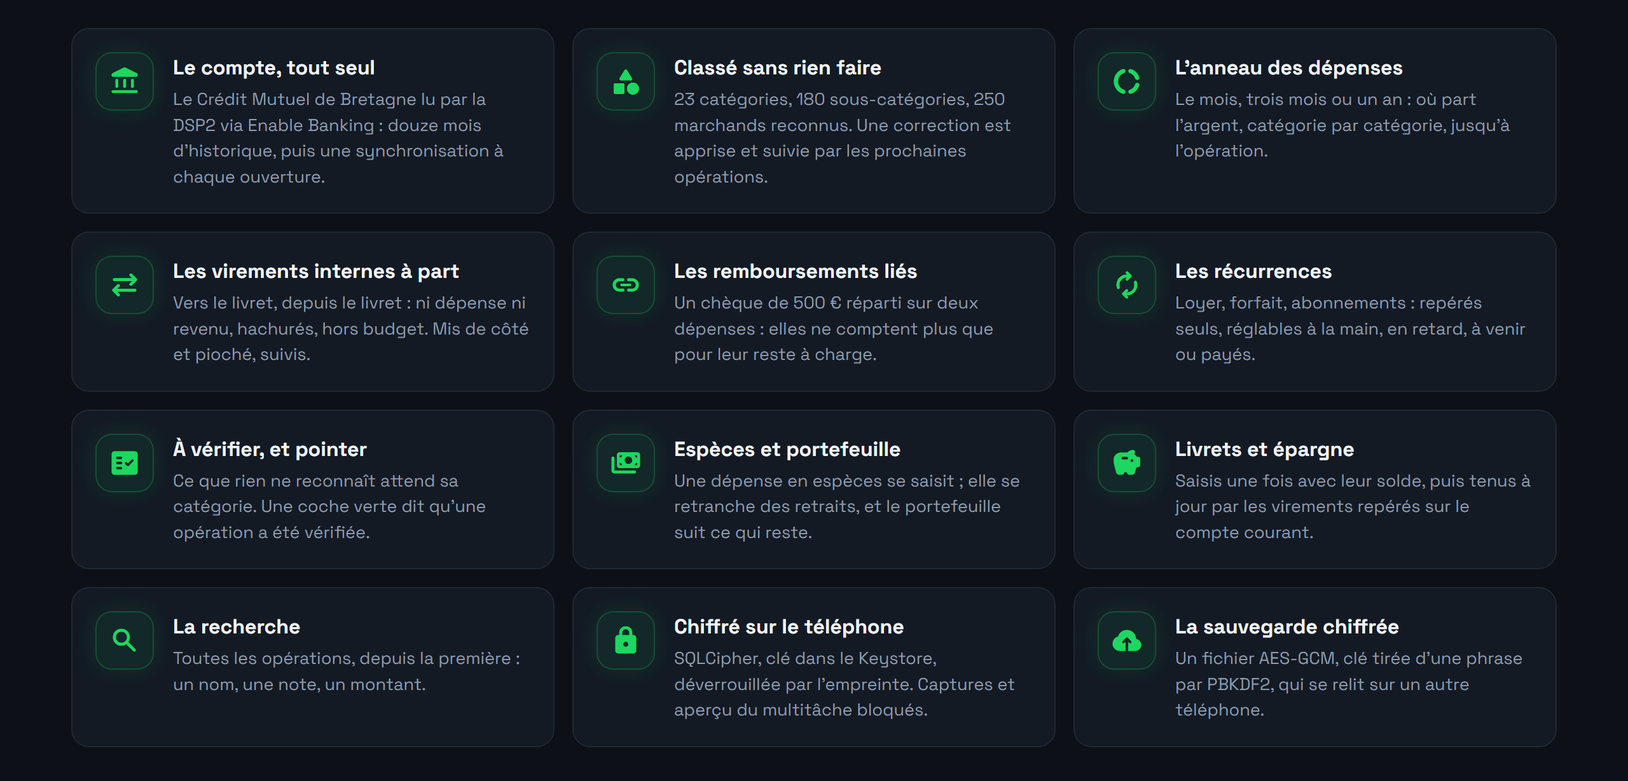
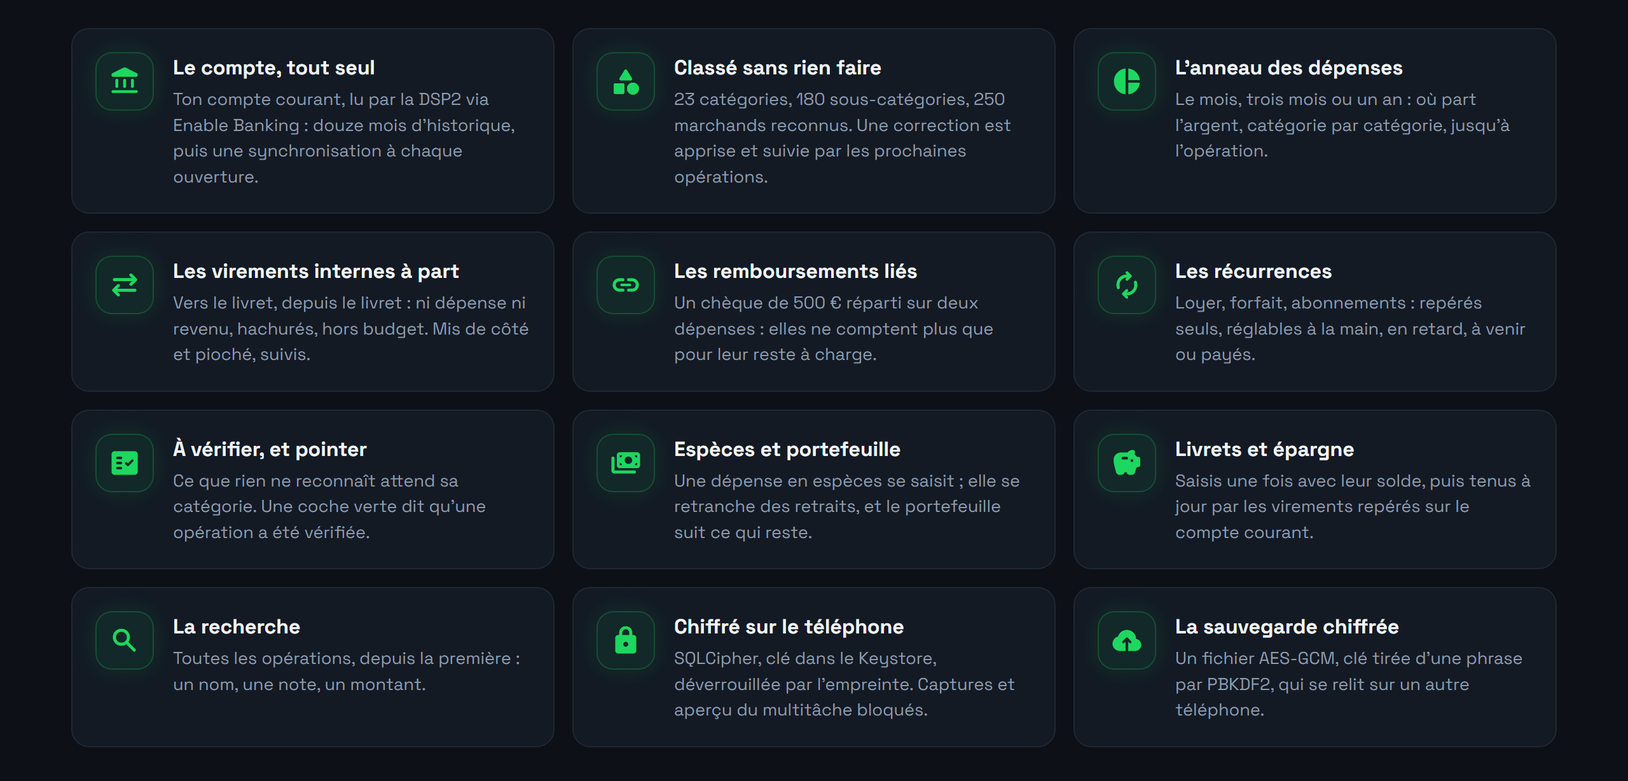
Relecture des schémas : chaque détail à sa place
Relier la banque devient un vrai diagramme d'échanges, quatre acteurs et
neuf messages qui filent de l'un à l'autre. Les billes passent sous les
cartes et gardent la couleur de leur étape (la première du chiffrement
était rose au lieu de verte). La sixième carte de la banque ne
s'allumait jamais : une animation finissait avant la fin du cycle. À
classer n'est plus allumé quand il n'est pas atteint. Les montants, les
barres et les conclusions des mouvements arrivent dans l'ordre. Plus
de Crédit Mutuel là où il ne sert à rien, et des icônes plus lisibles.

Claude-Session: https://claude.ai/code/session_01NXLhh24fksVRhN8kDArzP8

Changed region(s): [[0.0938, 0.1238, 0.3125, 0.2476], [0.6875, 0.0928, 0.7188, 0.1238]]

diff --git a/docs/tools/anime.js b/docs/tools/anime.js
@@ -85,6 +85,7 @@ function visible(cycle, de, a, douceur = 0.02) {
   if (de > douceur) e.push([de - douceur, 0]);
   e.push([de, 1], [Math.min(a, 1), 1]);
   if (a + douceur < 1) e.push([a + douceur, 0], [1, 0]);
+  else if (a < 1) e.push([1, 1]);
   return fondu('opacity', cycle, e);
 }
 
@@ -138,45 +139,88 @@ const P = {
 
 // ------------------------------------------------------------------------
 // 1. Relier la banque : l'aller-retour qui ouvre l'accès au compte.
+//
+// Un diagramme d'échanges : quatre acteurs en colonnes, et chaque message
+// file de l'un à l'autre, sa flèche se trace et son libellé reste. La
+// colonne qui reçoit s'allume.
 {
-  const C = 14;
-  const L = 330, H = 78;
-  const xs = [60, 475, 890], hauts = 96, bas = 290;
-  const etapes = [
-    [xs[0], hauts, 'Smart Budget', 'JWT signé en RS256', P.telephone, VERT],
-    [xs[1], hauts, 'Enable Banking', 'POST /auth, état au hasard', P.nuage, BLEU],
-    [xs[2], hauts, 'Crédit Mutuel', 'tu valides par Safetrans', P.banque, OR],
-    [xs[2], bas, 'GitHub Pages', 'cybertrist.github.io/SmartBudget', P.page, ROSE],
-    [xs[1], bas, 'smartbudget://banque', 'état vérifié, POST /sessions', P.lien, NEON],
-    [xs[0], bas, 'Session de 180 jours', '12 mois importés, puis à l’ouverture', P.horloge, VERT],
+  const C = 18;
+  const acteurs = [
+    [160, 'Smart Budget', 'le téléphone', P.telephone, VERT],
+    [480, 'Enable Banking', 'l’accès DSP2', P.nuage, BLEU],
+    [800, 'Ta banque', 'tu valides', P.banque, OR],
+    [1120, 'GitHub Pages', 'la page de retour', P.page, ROSE],
   ];
-  // Le chemin passe par le centre de chaque carte.
-  const cx = (i) => etapes[i][0] + L / 2, cy = (i) => etapes[i][1] + H / 2;
-  const chemin = `M${cx(0)} ${cy(0)} H${cx(1)} H${cx(2)} V${cy(3)} H${cx(4)} H${cx(5)} V${cy(0)}`;
-  // Longueurs relatives : 415, 415, 194, 415, 415, 194 sur 2048.
-  const seg = [0, 415, 830, 1024, 1439, 1854, 2048].map((v) => (v / 2048).toFixed(4));
-  const pts = [], tps = [];
-  for (let i = 0; i < 6; i++) {
-    const a = i / 6, b = a + 0.1;
-    pts.push(seg[i], seg[i]); tps.push(a.toFixed(3), b.toFixed(3));
-  }
-  pts.push(seg[6]); tps.push('1');
+  // [de, vers, libellé] ; de === vers : une étape sur place.
+  const messages = [
+    [0, 1, 'POST /auth : un JWT signé en RS256, et un état tiré au hasard'],
+    [1, 2, 'ouvre la page de la banque'],
+    [2, 2, 'tu valides par Safetrans'],
+    [2, 3, 'revient avec ?code=…&state=…'],
+    [3, 0, 'rend la main : smartbudget://banque'],
+    [0, 0, 'l’état est le même qu’au départ ✓'],
+    [0, 1, 'POST /sessions : échange le code'],
+    [1, 0, 'une session de 180 jours, et les comptes'],
+    [0, 0, '12 mois importés, puis à chaque ouverture'],
+  ];
+  const Y = 196, PAS = 44, trajet = 0.05;
+  const debut = (i) => 0.03 + i * 0.098;
+  const fin = 0.95;
+  const hL = 64, hY = 86;
   let corps = '';
   corps += t(60, 52, 'RELIER LA BANQUE', { taille: 13, couleur: VERT, police: MONO, poids: 700, extra: 'letter-spacing="3"' });
   corps += t(270, 52, 'Un aller-retour, une fois tous les 180 jours. La clé privée ne quitte jamais le téléphone.', { taille: 14 });
-  corps += fil(`M${cx(0) + L / 2} ${cy(0)} H${xs[1]} M${cx(1) + L / 2} ${cy(1)} H${xs[2]} M${cx(2)} ${hauts + H} V${bas} M${xs[2]} ${cy(3)} H${cx(4) + L / 2} M${xs[1]} ${cy(4)} H${cx(5) + L / 2}`);
-  etapes.forEach((e, i) => {
-    corps += carte(e[0], e[1], L, H, e[2], e[3], e[5], { icone: e[4], allume: [i / 6, i / 6 + 0.16], cycle: C });
+  // Les lignes de vie, puis les en-têtes.
+  const basVie = Y + (messages.length - 1) * PAS + 22;
+  for (const [x, , , , c] of acteurs) {
+    corps += `<line x1="${x}" y1="${hY + hL}" x2="${x}" y2="${basVie}" stroke="${c}" stroke-opacity="0.28" stroke-width="2" stroke-dasharray="3 6"/>`;
+  }
+  acteurs.forEach(([x, titre, sous, icone, c], k) => {
+    const l = 236, x0 = x - l / 2;
+    corps += `<rect x="${x0}" y="${hY}" width="${l}" height="${hL}" rx="13" fill="${CARTE}" stroke="${BORD}"/>
+      <rect x="${x0}" y="${hY + 12}" width="3" height="${hL - 24}" rx="1.5" fill="${c}"/>
+      <g transform="translate(${x0 + 18},${hY + hL / 2 - 14})">${icone(c)}</g>
+      ${t(x0 + 58, hY + 29, titre, { taille: 14.5, couleur: TITRE, police: MONO, poids: 700 })}
+      ${t(x0 + 58, hY + 48, sous, { taille: 12.5 })}`;
+    // Elle s'allume à chaque message qu'elle reçoit.
+    messages.forEach(([, vers], i) => {
+      if (vers !== k) return;
+      const a = debut(i) + trajet;
+      corps += `<rect x="${x0}" y="${hY}" width="${l}" height="${hL}" rx="13" fill="none" stroke="${c}" stroke-width="1.5" filter="url(#halo)" opacity="0">${visible(C, a, a + 0.07)}</rect>`;
+    });
   });
-  // Les numéros d'étape.
-  etapes.forEach((e, i) => {
-    corps += `<circle cx="${e[0] + L - 22}" cy="${e[1] + 20}" r="11" fill="${FOND}" stroke="${e[5]}" stroke-opacity="0.5"/>` +
-      t(e[0] + L - 22, e[1] + 24.5, String(i + 1), { taille: 12, couleur: e[5], police: MONO, poids: 700, ancre: 'middle' });
+  // Les messages.
+  messages.forEach(([de, vers, libelle], i) => {
+    const y = Y + i * PAS, s = debut(i), c = acteurs[de][4];
+    const xa = acteurs[de][0], xb = acteurs[vers][0];
+    if (de === vers) {
+      // Une pastille accrochée à sa colonne, qui s'ouvre vers la droite.
+      const l = libelle.length * 6.9 + 36, x0 = xa - 14;
+      corps += `<g opacity="0">${visible(C, s, fin)}
+        <rect x="${x0}" y="${y - 14}" width="${l}" height="28" rx="14" fill="${FOND}"/>
+        <rect x="${x0}" y="${y - 14}" width="${l}" height="28" rx="14" fill="${c}" fill-opacity="0.14" stroke="${c}" stroke-opacity="0.8"/>
+        <circle cx="${xa}" cy="${y}" r="4" fill="${c}"/>
+        ${t(x0 + 26, y + 4.5, libelle, { taille: 12.5, couleur: TITRE })}
+      </g>`;
+      return;
+    }
+    const sens = xb > xa ? 1 : -1;
+    const x1 = xa + sens * 8, x2 = xb - sens * 10, long = Math.abs(x2 - x1);
+    corps += `<g opacity="0">${visible(C, s, fin)}
+      <line x1="${x1}" y1="${y}" x2="${x2}" y2="${y}" stroke="${c}" stroke-width="2" stroke-dasharray="${long}" stroke-dashoffset="${long}">
+        ${fondu('stroke-dashoffset', C, [[0, long], [s, long], [s + trajet, 0], [1, 0]])}</line>
+      <path d="M${x2 - sens * 7} ${y - 6} L${x2 + sens * 1} ${y} L${x2 - sens * 7} ${y + 6}" fill="none" stroke="${c}" stroke-width="2" stroke-linecap="round" stroke-linejoin="round" opacity="0">${visible(C, s + trajet, fin)}</path>
+      <circle cx="${xa}" cy="${y}" r="4" fill="${c}"/>
+      ${t((xa + xb) / 2, y - 10, libelle, { taille: 12.5, couleur: TITRE, ancre: 'middle' })}
+    </g>`;
+    // Le paquet qui file le long de la flèche.
+    corps += `<g filter="url(#halo)" opacity="0">${fondu('opacity', C, [[0, 0], [s, 0], [s + 0.004, 1], [s + trajet, 1], [s + trajet + 0.006, 0], [1, 0]])}
+      <circle cy="${y}" r="6" fill="${c}"><animate attributeName="cx" dur="${C}s" repeatCount="indefinite" keyTimes="0;${s};${s + trajet};1" values="${x1};${x1};${x2};${x2}" calcMode="spline" keySplines="0 0 1 1;0.45 0 0.25 1;0 0 1 1"/></circle>
+    </g>`;
   });
-  corps += bille(chemin, C, pts.join(';'), tps.join(';'));
-  corps += t(640, 418, 'Le jeton d’état tiré au hasard empêche un lien fabriqué ailleurs de relier un autre compte.', { taille: 13, couleur: DISCRET, ancre: 'middle' });
-  svg('banque.svg', 1280, 440, corps,
-    'Relier la banque, en six étapes qui s’allument tour à tour : Smart Budget signe un JWT en RS256 ; Enable Banking ouvre une demande avec un état tiré au hasard ; tu valides au Crédit Mutuel de Bretagne par Safetrans ; la banque revient sur GitHub Pages ; la page rend la main à l’application par smartbudget://banque, qui vérifie l’état et ouvre la session ; la session dure 180 jours, douze mois sont importés, puis une synchronisation à chaque ouverture.');
+  corps += t(640, 604, 'Le jeton d’état, tiré au hasard au départ et vérifié au retour, empêche un lien fabriqué ailleurs de relier un autre compte.', { taille: 13, couleur: DISCRET, ancre: 'middle' });
+  svg('banque.svg', 1280, 630, corps,
+    'Relier la banque, un échange entre quatre acteurs : Smart Budget, Enable Banking, ta banque et GitHub Pages. Smart Budget envoie à Enable Banking un JWT signé en RS256 et un état tiré au hasard ; Enable Banking ouvre la page de la banque ; tu valides par Safetrans ; la banque revient sur GitHub Pages avec un code et l’état ; la page rend la main à l’application par smartbudget://banque ; l’application vérifie que l’état est le même qu’au départ, échange le code contre une session de 180 jours et les comptes, puis importe douze mois et se synchronise à chaque ouverture.');
 }
 
 // ------------------------------------------------------------------------
@@ -218,7 +262,18 @@ const P = {
   const l = 268, y = 206, h = 86;
   qs.forEach(([titre, sous, rep, instant], i) => {
     const xq = 60 + i * (l + 22);
-    const couleur = rep === 'oui' ? VERT : rep === 'non' ? ROUGE : DISCRET;
+    const couleur = rep === 'oui' ? VERT : ROUGE;
+    // La dernière question n'est pas posée : la carte s'éteint.
+    if (rep === 'saut') {
+      corps += `<g>
+      <rect x="${xq}" y="${y}" width="${l}" height="${h}" rx="13" fill="${CARTE}" stroke="${BORD}"/>
+      ${t(xq + 20, y + 36, titre, { taille: 15, couleur: TITRE, police: MONO, poids: 700 })}
+      ${t(xq + 20, y + 60, sous, { taille: 12.5 })}
+      <rect x="${xq}" y="${y}" width="${l}" height="${h}" rx="13" fill="${FOND}" opacity="0">${fondu('opacity', C, [[0, 0], [instant, 0], [instant + 0.04, 0.6], [0.92, 0.6], [1, 0]])}</rect>
+      <g opacity="0">${visible(C, instant + 0.03, 0.92)}${t(xq + l - 20, y + 35, 'pas atteint', { taille: 12, couleur: DISCRET, police: MONO, ancre: 'end' })}</g>
+    </g>`;
+      return;
+    }
     corps += `<g>
       <rect x="${xq}" y="${y}" width="${l}" height="${h}" rx="13" fill="${CARTE}" stroke="${BORD}"/>
       <rect x="${xq}" y="${y}" width="${l}" height="${h}" rx="13" fill="none" stroke="${couleur}" stroke-width="1.5" opacity="0" ${rep === 'oui' ? 'filter="url(#halo)"' : ''}>${visible(C, instant, rep === 'oui' ? 0.92 : instant + 0.1)}</rect>
@@ -226,7 +281,7 @@ const P = {
       ${t(xq + 20, y + 60, sous, { taille: 12.5 })}
       <g opacity="0">${visible(C, instant + 0.03, 0.92)}
         <circle cx="${xq + l - 30}" cy="${y + 30}" r="13" fill="${couleur}" fill-opacity="0.15" stroke="${couleur}"/>
-        ${t(xq + l - 30, y + 35, rep === 'oui' ? '✓' : rep === 'non' ? '✕' : '·', { taille: 15, couleur, ancre: 'middle', poids: 700 })}
+        ${t(xq + l - 30, y + 35, rep === 'oui' ? '✓' : '✕', { taille: 15, couleur, ancre: 'middle', poids: 700 })}
       </g>
     </g>`;
     if (i < 3) corps += `<path d="M${xq + l + 4} ${y + h / 2} h14" stroke="${FIL}" stroke-width="2" marker-end=""/><path d="M${xq + l + 14} ${y + h / 2 - 5} l5 5 l-5 5" fill="none" stroke="${FIL}" stroke-width="2"/>`;
@@ -263,10 +318,10 @@ const P = {
   // a. Virement interne.
   const a = 60;
   corps += col(a, 'Un virement vers le livret', INTERNE);
-  corps += t(a + 22, 158, 'VIR VERS LIVRET CMB', { taille: 12.5, couleur: TITRE, police: MONO });
-  corps += t(a + 22, 176, 'DE CARTE BANCAIRE', { taille: 12.5, couleur: TITRE, police: MONO });
+  corps += t(a + 22, 158, 'VIR VERS LIVRET A', { taille: 12.5, couleur: TITRE, police: MONO });
+  corps += t(a + 22, 176, 'DE COMPTE COURANT', { taille: 12.5, couleur: TITRE, police: MONO });
   corps += `<rect x="${a + 22}" y="198" width="120" height="58" rx="11" fill="#0F151D" stroke="${BORD}"/>${t(a + 82, 222, 'Compte', { taille: 12, ancre: 'middle' })}${t(a + 82, 240, 'courant', { taille: 12, ancre: 'middle' })}`;
-  corps += `<rect x="${a + 228}" y="198" width="120" height="58" rx="11" fill="#0F151D" stroke="${BLEU}" stroke-opacity="0.5"/>${t(a + 288, 222, 'Livret', { taille: 12, couleur: BLEU, ancre: 'middle' })}${t(a + 288, 240, 'CMB', { taille: 12, couleur: BLEU, ancre: 'middle' })}`;
+  corps += `<rect x="${a + 228}" y="198" width="120" height="58" rx="11" fill="#0F151D" stroke="${BLEU}" stroke-opacity="0.5"/>${t(a + 288, 231, 'Livret A', { taille: 12.5, couleur: BLEU, ancre: 'middle' })}`;
   corps += fil(`M${a + 144} 227 H${a + 226}`);
   corps += `<g>${bille(`M${a + 144} 227 H${a + 226}`, 3, '0;1', '0;1', BLEU, 5)}</g>`;
   corps += `<rect x="${a + 22}" y="276" width="326" height="36" rx="9" fill="url(#hachures)" stroke="#2A3542"/>${t(a + 185, 299, 'hors budget : ni dépense, ni revenu', { taille: 12.5, couleur: INTERNE, ancre: 'middle' })}`;
@@ -285,12 +340,14 @@ const P = {
       <text x="${b + 348}" y="${y}" font-family="${MONO}" font-size="13.5" font-weight="700" fill="${TITRE}" text-anchor="end">-${total} €${paliers('opacity', C, [[0, 1], [debut + 0.12, 0], [0.95, 1]])}</text>
       <text x="${b + 348}" y="${y}" font-family="${MONO}" font-size="13.5" font-weight="700" fill="${ROSE}" text-anchor="end" opacity="0">reste ${reste} €${paliers('opacity', C, [[0, 0], [debut + 0.12, 1], [0.95, 0]])}</text>
       <rect x="${b + 22}" y="${y + 10}" width="${L}" height="9" rx="4.5" fill="#1D2530"/>
-      <rect x="${b + 22}" y="${y + 10}" width="${w0}" height="9" rx="4.5" fill="${ROSE}">${fondu('width', C, [[0, w0], [debut, w0], [debut + 0.12, w1], [0.92, w1], [1, w0]])}</rect>
-      ${t(b + 22, y + 38, `${part} € du chèque`, { taille: 11.5, couleur: DISCRET })}`;
+      <rect x="${b + 22}" y="${y + 10}" width="${w0}" height="9" rx="4.5" fill="${ROSE}">${fondu('width', C, [[0, w0], [debut, w0], [debut + 0.12, w1], [0.95, w1], [0.99, w0], [1, w0]])}</rect>
+      <g opacity="0">${visible(C, debut + 0.02, 0.95)}${t(b + 22, y + 38, `${part} € du chèque`, { taille: 11.5, couleur: ROSE })}</g>`;
   };
   corps += barre(222, 'Billet de train', 380, 80, 300, 0.12);
   corps += barre(286, 'Restaurant', 260, 60, 200, 0.3);
-  corps += fil(`M${b + 185} 190 V212`);
+  // Le chèque se partage : un fil rose vers chaque dépense qu'il rembourse.
+  const branche = (y, de) => `<path d="M${b + 22} 168 H${b + 11} V${y} H${b + 20}" fill="none" stroke="${ROSE}" stroke-opacity="0.6" stroke-width="1.5" stroke-linejoin="round" opacity="0">${visible(C, de, 0.95)}</path>`;
+  corps += branche(236, 0.12) + branche(300, 0.3);
   corps += t(b + 22, 370, 'Revenu compté', { taille: 13 }) + `<g>${t(b + 348, 370, '0 €', { taille: 13, couleur: TITRE, police: MONO, ancre: 'end' })}</g>`;
   corps += t(b + 22, 396, 'Les dépenses ne pèsent que leur reste.', { taille: 12, couleur: DISCRET });
 
@@ -305,11 +362,11 @@ const P = {
   corps += `<rect x="${c + 22}" y="306" width="326" height="36" rx="9" fill="${OR}" fill-opacity="0.08" stroke="${OR}" stroke-opacity="0.35"/>`;
   corps += `<g>${t(c + 185, 329, 'Portefeuille : 50 €', { taille: 13, couleur: OR, police: MONO, poids: 700, ancre: 'middle' })}${paliers('opacity', C, [[0, 1], [0.32, 0], [0.95, 1]])}</g>`;
   corps += `<g opacity="0">${t(c + 185, 329, 'Portefeuille : 38 €', { taille: 13, couleur: OR, police: MONO, poids: 700, ancre: 'middle' })}${paliers('opacity', C, [[0, 0], [0.32, 1], [0.95, 0]])}</g>`;
-  corps += t(c + 22, 370, 'Sorties du mois', { taille: 13 }) + t(c + 348, 370, '50 €, pas 62', { taille: 13, couleur: TITRE, police: MONO, ancre: 'end' });
+  corps += t(c + 22, 370, 'Sorties du mois', { taille: 13 }) + `<g>${t(c + 348, 370, '50 €', { taille: 13, couleur: TITRE, police: MONO, ancre: 'end' })}${paliers('opacity', C, [[0, 1], [0.5, 0], [0.95, 1]])}</g><g opacity="0">${t(c + 348, 370, '50 €, pas 62', { taille: 13, couleur: TITRE, police: MONO, ancre: 'end' })}${paliers('opacity', C, [[0, 0], [0.5, 1], [0.95, 0]])}</g>`;
   corps += t(c + 22, 396, 'Le même billet ne compte qu’une fois.', { taille: 12, couleur: DISCRET });
 
   svg('mouvements.svg', 1280, 440, corps,
-    'Trois pièges d’un relevé, et comment l’application les défait. Un virement vers le livret CMB, lu dans VIR VERS LIVRET CMB DE CARTE BANCAIRE : l’argent passe du compte courant au livret, il est hors budget, compté 200 euros mis de côté, et le budget reste inchangé. Un chèque de 500 euros qui rembourse : 300 euros vont au billet de train de 380 euros, dont il reste 80, et 200 au restaurant de 260 euros, dont il reste 60 ; le chèque ne compte pas comme un revenu. Des espèces : un retrait de 50 euros, puis 12 euros au marché ; les retraits tombent à 38, les courses montent à 12, le portefeuille passe de 50 à 38 euros, et les sorties du mois restent 50 euros, pas 62.');
+    'Trois pièges d’un relevé, et comment l’application les défait. Un virement vers le livret A, lu dans VIR VERS LIVRET A DE COMPTE COURANT : l’argent passe du compte courant au livret, il est hors budget, compté 200 euros mis de côté, et le budget reste inchangé. Un chèque de 500 euros qui rembourse : 300 euros vont au billet de train de 380 euros, dont il reste 80, et 200 au restaurant de 260 euros, dont il reste 60 ; le chèque ne compte pas comme un revenu. Des espèces : un retrait de 50 euros, puis 12 euros au marché ; les retraits tombent à 38, les courses montent à 12, le portefeuille passe de 50 à 38 euros, et les sorties du mois restent 50 euros, pas 62.');
 }
 
 // ------------------------------------------------------------------------
@@ -320,6 +377,13 @@ const P = {
   corps += t(60, 52, 'LE CHIFFREMENT', { taille: 13, couleur: VERT, police: MONO, poids: 700, extra: 'letter-spacing="3"' });
   corps += t(240, 52, 'L’empreinte ne déverrouille pas un écran : elle charge la clé.', { taille: 14 });
   const L = 250, H = 76;
+  // Les billes passent sous les cartes : elles ne se voient que sur les fils.
+  // Verte de l'empreinte au Keystore, puis bleue et rose une fois la clé
+  // dérivée ; la dorée attend son tour, cachée dans la carte de la phrase.
+  corps += bille('M185 210 H485', C, '0;0;1;1', '0;0.03;0.18;1', VERT, 5);
+  corps += bille('M485 210 H610 C635 210 635 128 660 128 H1090', C, '0;0;1;1', '0;0.18;0.5;1', BLEU, 5);
+  corps += bille('M485 210 H610 C635 210 635 292 660 292 H1090', C, '0;0;1;1', '0;0.18;0.5;1', ROSE, 5);
+  corps += bille('M185 430 H940', C, '0;0;1;1', '0;0.5;0.8;1', OR, 5);
   corps += carte(60, 172, L, H, 'Empreinte', 'local_auth', VERT, { icone: P.empreinte, allume: [0, 0.2], cycle: C });
   corps += carte(360, 172, L, H, 'Keystore', 'clé maîtresse, 32 octets', NEON, { icone: P.cle, allume: [0.12, 0.35], cycle: C });
   corps += carte(660, 90, L, H, 'HKDF-SHA256', 'smartbudget/db/v1', BLEU, { icone: P.cadenas, allume: [0.3, 0.6], cycle: C });
@@ -328,15 +392,12 @@ const P = {
   corps += carte(960, 254, 260, H, 'AES-GCM', 'la clé d’Enable Banking', ROSE, { icone: P.cle, allume: [0.45, 0.8], cycle: C });
   const p1 = 'M310 210 H360', p2 = 'M610 210 C635 210 635 128 660 128 M910 128 H960', p3 = 'M610 210 C635 210 635 292 660 292 M910 292 H960';
   corps += fil(p1) + fil(p2) + fil(p3);
-  corps += bille('M310 210 H360 H610 C635 210 635 128 660 128 H910 H960', C, '0;0;1;1', '0;0.1;0.55;1', BLEU, 5);
-  corps += bille('M310 210 H360 H610 C635 210 635 292 660 292 H910 H960', C, '0;0;1;1', '0;0.1;0.55;1', ROSE, 5);
   // La sauvegarde, qui ne dépend pas du téléphone.
   corps += `<rect x="60" y="364" width="1160" height="1" fill="${BORD}"/>`;
   corps += carte(60, 392, L, H, 'Ta phrase', 'choisie à l’export', OR, { icone: P.phrase, allume: [0.5, 0.75], cycle: C });
   corps += carte(360, 392, L, H, 'PBKDF2', '210 000 tours, sel', OR, { icone: P.cadenas, allume: [0.6, 0.85], cycle: C });
   corps += carte(660, 392, 560, H, 'smartbudget-2026-09-24.sbx', 'AES-GCM : SBEX1 · sel 16 · nonce 12 · chiffré · MAC 16, relisible ailleurs', OR, { icone: P.fichier, allume: [0.7, 0.95], cycle: C });
   corps += fil('M310 430 H360 M610 430 H660');
-  corps += bille('M310 430 H660', C, '0;0;1;1', '0;0.5;0.8;1', OR, 5);
   corps += t(640, 508, 'Sans l’empreinte, la clé n’est pas en mémoire : contourner l’écran d’ouverture ne donnerait accès à rien.', { taille: 13, couleur: DISCRET, ancre: 'middle' });
   svg('chiffrement.svg', 1280, 530, corps,
     'Le chiffrement. L’empreinte charge la clé maîtresse de 32 octets depuis le Keystore Android. HKDF-SHA256 en dérive deux clés : l’une ouvre la base SQLCipher, l’autre chiffre en AES-GCM la clé privée d’Enable Banking. À part, la sauvegarde : une phrase choisie à l’export passe par PBKDF2 en 210 000 tours, et chiffre en AES-GCM un fichier .sbx relisible sur un autre téléphone. Sans l’empreinte, la clé n’est pas en mémoire, et contourner l’écran d’ouverture ne donne accès à rien.');

diff --git a/README.md b/README.md
@@ -12,7 +12,7 @@ Elle est née d'une envie simple : arrêter de dépenser sans regarder, et de pi
 
 <img src="docs/sections/s01.png" alt="01 Fonctionnalités" width="100%">
 
-<img src="docs/schemas/fonctionnalites.png" alt="Douze fonctionnalités. Le compte, tout seul : le Crédit Mutuel de Bretagne lu par la DSP2 via Enable Banking, douze mois d'historique puis une synchronisation à chaque ouverture. Classé sans rien faire : 23 catégories, 180 sous-catégories, 250 marchands reconnus, et une correction apprise. L'anneau des dépenses, sur un mois, trois mois ou un an. Les virements internes à part, hors budget. Les remboursements liés à leurs dépenses. Les récurrences repérées seules. À vérifier et pointer. Espèces et portefeuille. Livrets et épargne tenus par les virements. La recherche dans toutes les opérations. Chiffré sur le téléphone. La sauvegarde chiffrée." width="100%">
+<img src="docs/schemas/fonctionnalites.png" alt="Douze fonctionnalités. Le compte, tout seul : le compte courant lu par la DSP2 via Enable Banking, douze mois d'historique puis une synchronisation à chaque ouverture. Classé sans rien faire : 23 catégories, 180 sous-catégories, 250 marchands reconnus, et une correction apprise. L'anneau des dépenses, sur un mois, trois mois ou un an. Les virements internes à part, hors budget. Les remboursements liés à leurs dépenses. Les récurrences repérées seules. À vérifier et pointer. Espèces et portefeuille. Livrets et épargne tenus par les virements. La recherche dans toutes les opérations. Chiffré sur le téléphone. La sauvegarde chiffrée." width="100%">
 
 <img src="docs/sections/s02.png" alt="02 Les écrans" width="100%">
 
@@ -52,7 +52,7 @@ flutter build apk --release --split-per-abi --dart-define=ESSAIS=true
 
 <img src="docs/sections/s04.png" alt="04 Relier la banque" width="100%">
 
-<img src="docs/schemas/banque.svg" alt="Relier la banque, en six étapes : Smart Budget signe un JWT en RS256 ; Enable Banking ouvre une demande avec un état tiré au hasard ; tu valides au Crédit Mutuel de Bretagne par Safetrans ; la banque revient sur GitHub Pages ; la page rend la main à l'application par smartbudget://banque, qui vérifie l'état et ouvre la session ; la session dure 180 jours, douze mois sont importés, puis une synchronisation à chaque ouverture." width="100%">
+<img src="docs/schemas/banque.svg" alt="Relier la banque, un échange entre quatre acteurs : Smart Budget, Enable Banking, ta banque et GitHub Pages. Smart Budget envoie un JWT signé en RS256 et un état tiré au hasard ; Enable Banking ouvre la page de la banque ; tu valides par Safetrans ; la banque revient sur GitHub Pages avec un code et l'état ; la page rend la main par smartbudget://banque ; l'application vérifie l'état, échange le code contre une session de 180 jours et les comptes, importe douze mois, puis se synchronise à chaque ouverture." width="100%">
 
 La banque ne parle pas aux particuliers : il faut un agrégateur agréé DSP2. [Enable Banking](https://enablebanking.com) en propose un, gratuit en mode restreint, c'est-à-dire limité aux comptes qu'on a soi-même reliés sur son portail. Bridge, l'API de Bankin, est réservé aux entreprises, et GoCardless a fermé ses inscriptions.
 
@@ -73,7 +73,7 @@ Ce que rien ne reconnaît tombe dans « À classer » et attend dans **À vérif
 
 <img src="docs/sections/s06.png" alt="06 Virements, remboursements, espèces" width="100%">
 
-<img src="docs/schemas/mouvements.svg" alt="Trois pièges d'un relevé. Un virement vers le livret, lu dans VIR VERS LIVRET CMB DE CARTE BANCAIRE, est hors budget et compte 200 euros mis de côté. Un chèque de 500 euros rembourse 300 euros d'un billet de train de 380 et 200 euros d'un restaurant de 260 : il reste 80 et 60 euros, et le chèque n'est pas un revenu. Un retrait de 50 euros puis 12 euros au marché en espèces : les retraits tombent à 38, les courses montent à 12, le portefeuille passe de 50 à 38, et les sorties du mois restent 50 euros." width="100%">
+<img src="docs/schemas/mouvements.svg" alt="Trois pièges d'un relevé. Un virement vers le livret, lu dans VIR VERS LIVRET A DE COMPTE COURANT, est hors budget et compte 200 euros mis de côté. Un chèque de 500 euros rembourse 300 euros d'un billet de train de 380 et 200 euros d'un restaurant de 260 : il reste 80 et 60 euros, et le chèque n'est pas un revenu. Un retrait de 50 euros puis 12 euros au marché en espèces : les retraits tombent à 38, les courses montent à 12, le portefeuille passe de 50 à 38, et les sorties du mois restent 50 euros." width="100%">
 
 Un budget honnête ne compte pas deux fois le même argent.
 
